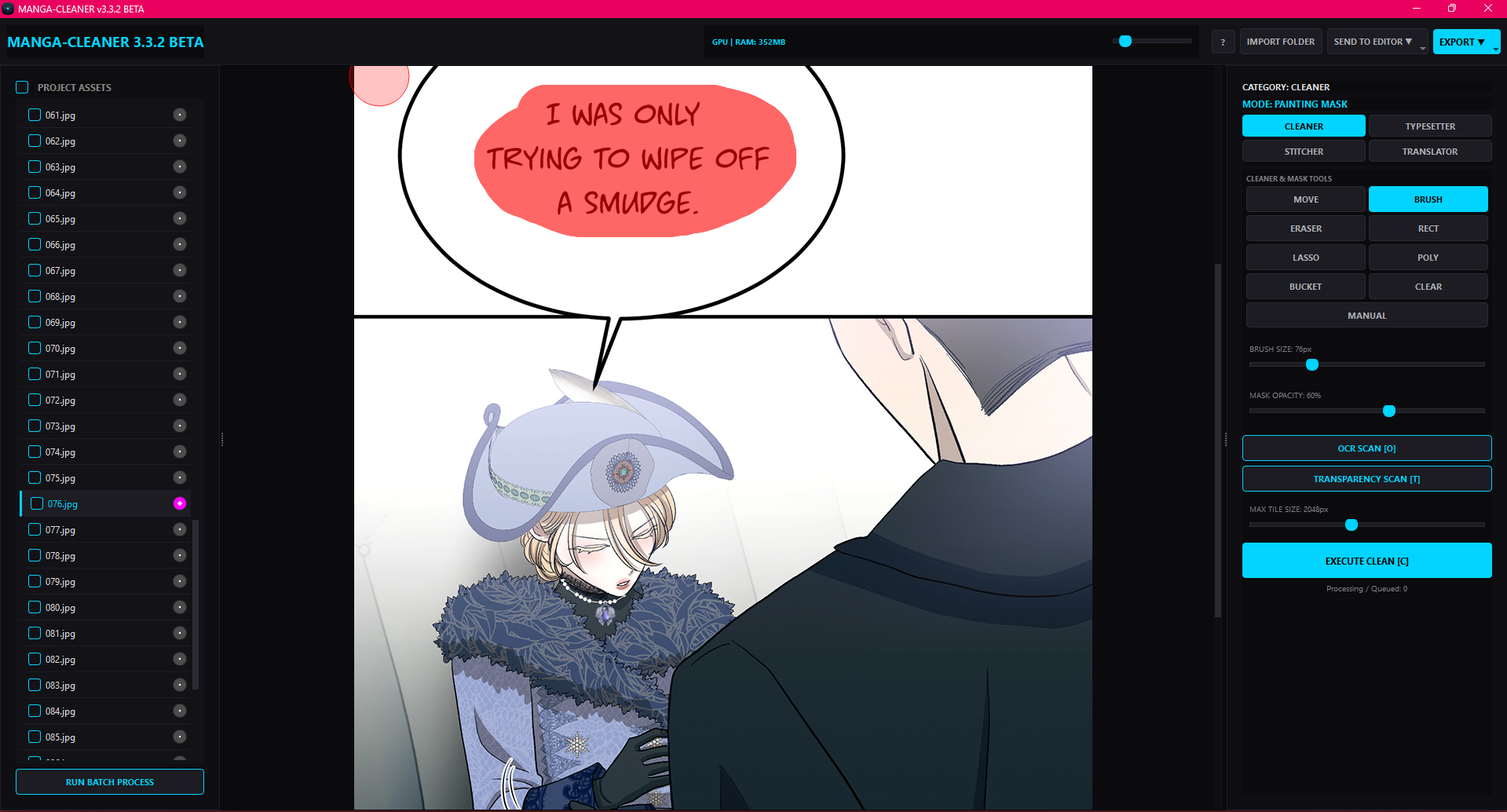
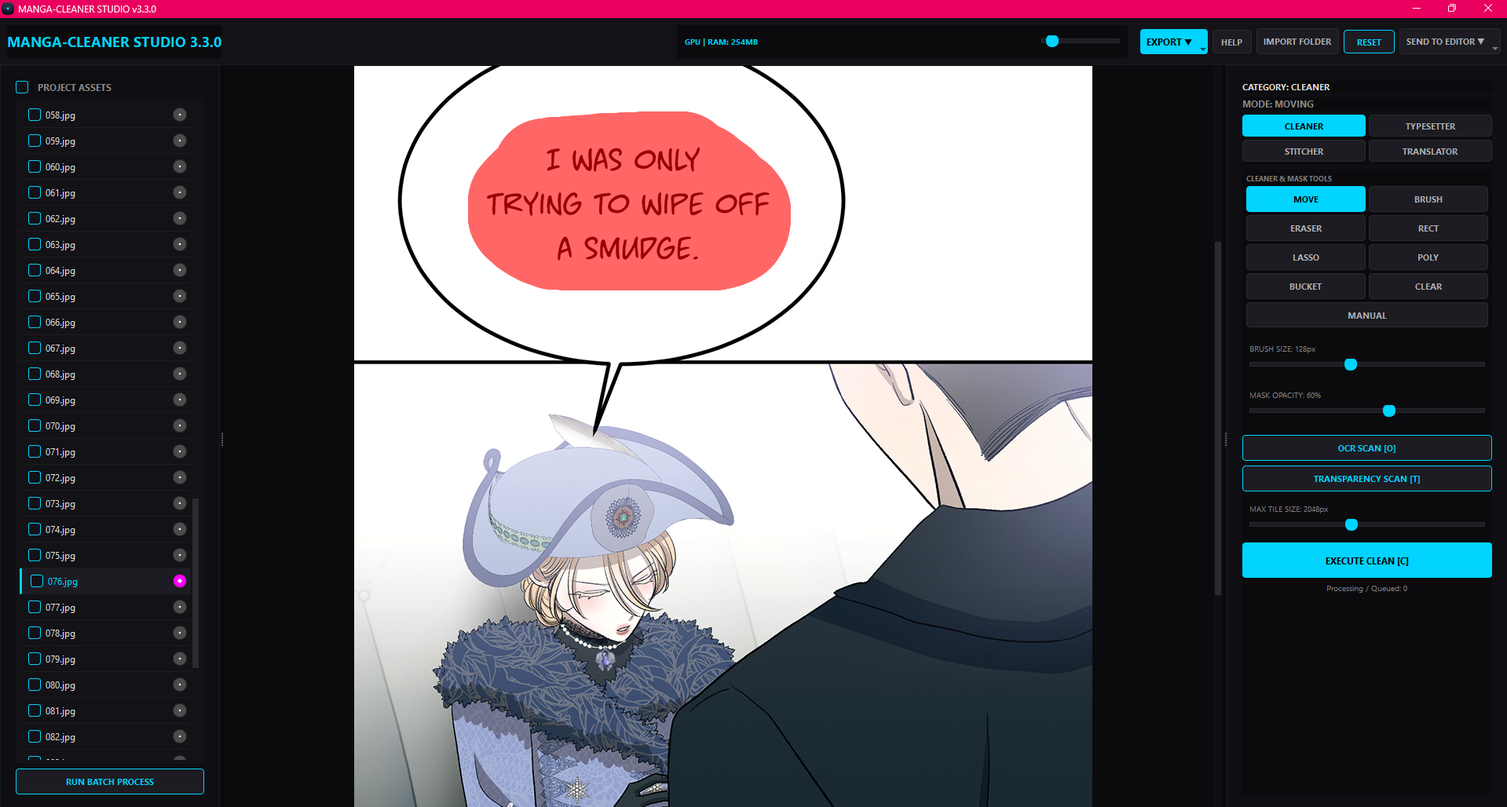
Version configuration: The BETA designation is removed, transitioning to the official version (3.3.2) The README file was updated..

diff --git a/src/utils/config.py b/src/utils/config.py
@@ -8,7 +8,7 @@ from src.utils.paths import Paths
 
 class Config:
     APP_NAME = "MANGA-CLEANER STUDIO"
-    VERSION = "3.3.0"
+    VERSION = "3.3.2"
 
     # Deep Obsidian Theme
     COLOR_BG = "#0b0b0e"

diff --git a/README.md b/README.md
@@ -1,73 +1,71 @@
-# 🌌 MANGA CLEANER STUDIO v3.3.0: The Workspaces & Typesetting Update
+# 🌌 MANGA CLEANER STUDIO v3.3.2: The Workspaces & Typesetting Update
+
 **High-Fidelity AI-Powered Scanlation Restoration Suite**
 
-[![Download v3.3.0](https://img.shields.io/badge/DOWNLOAD-v3.3.0-00d4ff?style=for-the-badge&logo=github)](https://github.com/NeTRuNNeRGLiTCH/manga-cleaner/releases)
+[![Download v3.3.2](https://img.shields.io/badge/DOWNLOAD-v3.3.2-00d4ff?style=for-the-badge&logo=github)](https://github.com/NeTRuNNeRGLiTCH/manga-cleaner/releases)
 [![Python Version](https://img.shields.io/badge/Python-3.10%20%7C%203.11%20%7C%203.12-blue)](https://www.python.org/)
 [![Downloads](https://img.shields.io/github/downloads/NeTRuNNeRGLiTCH/manga-cleaner/total?color=blue)](https://github.com/NeTRuNNeRGLiTCH/manga-cleaner/releases)
 
-Building upon the modular "Studio" engine introduced in v3.0.0 and the toolkit expansion of v3.2.0, **Manga Cleaner Studio v3.3.0** grows from a cleaning tool into a complete scanlation studio. The interface now has four dedicated workspaces — **Cleaner**, **Typesetter**, **Stitcher** and **Translator** — so you can go from raw scans to a finished chapter without leaving the app.
+Building on the modular Studio engine introduced in v3.0.0 and the toolkit expansion in v3.2.0, **Manga Cleaner Studio v3.3.2** expands Manga Cleaner into a multi-workspace scanlation tool. Four dedicated workspaces—**Cleaner**, **Typesetter**, **Stitcher**, and **Translator**—help users move from scan restoration to text placement and page assembly without leaving the application.
 
 ---
 
-## 🖥 Studio Preview (v3.3.0 UI)
-![Manga Cleaner v3.3 UI](.github/assets/ui.png)
-*Featuring the Obsidian Dark Theme, the two-column tool layout, live file-queue locking, and the new four-workspace switcher (Cleaner · Typesetter · Stitcher · Translator).*
+## 🖥 Studio Preview (v3.3.2 UI)
 
-Note: The screenshot was taken from a beta version, The UI doesn't change.
+![Manga Cleaner Studio v3.3.2 UI](.github/assets/ui.png)
+
+*Featuring the Obsidian Dark Theme, the two-column tool layout, live file-queue locking, and the four-workspace switcher (Cleaner · Typesetter · Stitcher · Translator). The screenshot shows the workspace layout used by v3.3.2.*
 
 ---
+
 ## 🎓 Installation & Setup Tutorial
 
-For the recommended installation and setup instructions, see the **[Running from Source](#-running-from-source)** section below.
+For recommended installation and setup instructions, see [Running from Source](#-running-from-source). This section covers:
 
-This includes instructions for:
-
-* Linux users with NVIDIA GPUs — **recommended**
-* CPU-only installations
-* Downloading and setting up the required AI models
-* Running Manga Cleaner directly from the repository
+- Linux users with NVIDIA GPUs (recommended)
+- CPU-only installations
+- Downloading and setting up the required AI models
+- Running Manga Cleaner directly from the repository
 
 ### 🎥 Video Tutorial
 
-Prefer a visual walkthrough? You can follow the video tutorial instead:
+Prefer a visual walkthrough? Follow the video tutorial:
 
-[![Watch the Video Tutorial](https://img.youtube.com/vi/9psnwpJG3aE/hqdefault.jpg)](https://www.youtube.com/embed/9psnwpJG3aE)  
+[![Watch the Video Tutorial](https://img.youtube.com/vi/9psnwpJG3aE/hqdefault.jpg)](https://www.youtube.com/watch?v=9psnwpJG3aE)
 
-The video provides a step-by-step walkthrough of setting up and using Manga Cleaner.
-
-Note: The video was recorded in version 3.2.0 (Manga Cleaner).
+The video provides a step-by-step walkthrough of setting up and using Manga Cleaner. **Note:** The video was recorded with version 3.2.0, so some newer Studio features are not shown.
 
 ---
 
-## ✨ What's New in v3.3.2 Beta
+## ✨ What's New in v3.3.2
 
-Everything that happens after the cleaning step — translating, typesetting and stitching — now lives in the same window:
+Everything after the cleaning step—including translating, typesetting, and stitching—can now be handled in the same window.
 
-*   **Four Workspaces:** Switch between **CLEANER**, **TYPESETTER**, **STITCHER** and **TRANSLATOR** from the 2×2 selector at the top of the right panel. Each workspace only shows the controls it needs.
-*   **Photoshop-Style Typesetter:** Add text directly on the page with a full transform gizmo — corner nodes scale the font, side nodes resize the text box with automatic word wrap, and the top node rotates freely (hold `Shift` to snap every 15°). Includes bold, italic, centering, an **Angle** field, a `0°` reset and **Fit Box** auto-width.
-*   **Vector Outside Stroke:** Text can use a true `Stroke (Outside)` mode with adjustable width and opacity. The clean fill is drawn on top of the stroke, so the outline never eats into the letters. Toggle it with the single **Mode: Normal / Stroke (Outside)** button. Pure color swatches and a one-click White/Black swap (`⇄`) keep styling fast.
-*   **Font Manager:** Live search by font name or alias, a **★ Only** favorites filter, one-click favorites, and custom aliases (`✎`) that keep the original system name visible (`Alias [Family]`). Everything is saved automatically to `font_presets.json`.
-*   **Page Text Layers:** A live list of every text box on the current page. Click an entry to select it and center the view on it. Queued script lines appear in the same list.
-*   **Manual Cleaner (`MANUAL` + `PICKER`):** Paint directly onto the page for the touch-ups the AI misses. Draw straight lines with `Shift + Click`, resize the brush with `Alt + Right-Click Drag`, and sample any pixel with `PICKER` (or `Alt + Left-Click` while painting). A color swatch and a quick `White` reset are included.
-*   **Smart Undo:** While `MANUAL` or `PICKER` is active, `Ctrl+Z` / `Ctrl+Shift+Z` undo and redo the painted image directly, so a stray shortcut can't wipe your page. With every other tool they keep undoing mask edits.
-*   **Translator Workspace:** Generate a `.txt` script template that matches the pages you loaded, hand it to your translator, then import the result. Dialogues are matched to pages by `[filename]` or by image order, and pages that couldn't be matched are reported. Lines are queued instead of rendered, so importing uses **no extra RAM**. Click a queued `[ + ]` line (or click directly on a speech bubble on the canvas) and the text is created on the spot with your currently selected font. See [Translator Script Format](#-translator-script-format).
-*   **Lossless Stitcher:** Join pages vertically with no seams, keeping your cleaning edits and text layers. Group pages manually (`From → To`), by pages per file, or by a maximum number of output files (for example, reduce 150 pages to 100 files). Optional **Max Height** protection (can be synced with Max Tile Size) and export to `PNG` or `JPG (100% quality, 4:4:4)`.
-*   **1:1 Export Compositing:** Text layers are flattened at native resolution for single exports, the Batch Engine and the Photoshop / Photopea bridges.
+- **Four Workspaces:** Switch between **CLEANER**, **TYPESETTER**, **STITCHER**, and **TRANSLATOR** using the 2×2 selector at the top of the right panel. Each workspace shows the controls relevant to that task.
+- **Photoshop-Style Typesetter:** Add text directly to the page with a transform gizmo. Corner handles scale the font, side handles resize the text box with automatic word wrapping, and the top handle rotates text. Hold `Shift` while rotating to snap to 15° increments. The panel also includes bold, italic, centering, an **Angle** field, a `0°` reset, and **Fit Box** auto-width.
+- **Vector Outside Stroke:** Apply an outer text stroke with adjustable width and opacity. The text fill is rendered over the stroke to keep the outline outside the letter fill. Switch modes with **Mode: Normal / Stroke (Outside)**. Color swatches and a one-click fill/stroke color swap (`⇄`) are included.
+- **Font Manager:** Search fonts by family name or alias, filter to favorites with **★ Only**, toggle favorites, and assign custom aliases while keeping the system font name visible (`Alias [Family]`). Preferences are saved to `font_presets.json`.
+- **Page Text Layers:** View placed text boxes and queued script lines for the active page. Select a placed entry to select and center the corresponding text item. Queued dialogue entries are displayed in the same list.
+- **Manual Cleaner (`MANUAL` + `PICKER`):** Paint directly onto the page for touch-ups that the AI misses. Draw straight lines with `Shift + Click`, resize the brush with `Alt + Right-Click Drag`, and sample a pixel with `PICKER` or `Alt + Left-Click` while Manual Cleaner is active. A color swatch and quick **White** reset are available.
+- **Smart Undo/Redo:** While `MANUAL` or `PICKER` is active, `Ctrl+Z` and `Ctrl+Shift+Z` undo and redo direct image painting. With mask tools active, those shortcuts continue to operate on mask edits.
+- **Translator Workspace:** Generate a `.txt` script template for the loaded pages and import a completed translation. Dialogues can be matched by `[filename]` or image order, and unmatched pages are reported. Imported dialogue is queued as text entries instead of being rasterized into the page at import time. Click a queued `[ + ]` entry to place it using the currently selected font and style. See [Translator Script Format](#-translator-script-format).
+- **Stitcher:** Join pages vertically while preserving the current cleaning edits and text layers. Group pages manually (`From → To`), by pages per output file, or by a maximum number of output files. Optional **Max Height** protection can be synchronized with **Max Tile Size**. PNG output is lossless; JPG output is compressed even when exported at high quality.
+- **Natural Filename Sorting:** Imported page filenames are sorted naturally, so numbered names such as `001`, `002`, `010`, and `100` appear in numerical order rather than lexicographic order.
+- **Project Reset:** Use **RESET** to clear the current in-memory project and return to an empty workspace without restarting the application. It clears loaded-page sessions, masks, text layers, pending dialogue entries, project histories, Stitcher blocks, and Translator script state. It does not delete source image files or persistent font preferences. Reset is blocked while an AI task or batch process is active. Actual memory usage after reset depends on the operating system and the memory retained by Python, Qt, OpenCV, and ONNX Runtime; the feature does not guarantee a fixed RAM baseline.
+- **Native-Resolution Export Compositing:** Text layers are composited at the image's native resolution for individual exports, batch processing, and the Photoshop / Photopea bridges.
 
 <details>
-<summary><b>Previously in v3.2.0</b></summary>
+<summary><b>Previously introduced in v3.2.0</b></summary>
 
-<br>
+The v3.0.0-to-v3.2.0 evolution expanded mask controls and workflow options:
 
-The evolution from v3.0.0 to v3.2.0 focused heavily on giving you granular control over your masks and workflow:
-
-*   **Expanded Toolkit:** We've added a **Polygonal Lasso** for precise geometric selections and a **Bucket Fill** tool that intelligently analyzes your mask layer. 
-*   **Pro Canvas Controls:** Navigate like a pro. Zoom in/out with `Alt + Scroll`, pan the image smoothly, draw perfectly straight lines using `Shift + Click`, and dynamically resize your brush on the fly with `Alt + Right-Click Drag`.
-*   **Transparency Scanning [T]:** Instantly detect and mask transparent/alpha areas with a single keystroke.
-*   **Photopea Integration:** Don't have Photoshop? v3.2.0 introduced a seamless bridge to **Photopea** (the free web editor). Cleaned pages and originals are injected directly into your browser as layered documents.
-*   **Linux Support:** The standard CPU edition now officially supports native execution on Linux environments!
-*   **Smart Queue UI:** The file list now displays real-time status icons and padlocks, so you always know exactly which pages the background AI is actively processing.
-*   **Mask Opacity Slider:** Dynamically adjust the visibility of your red mask overlay without altering the underlying data.
+- **Expanded Toolkit:** Polygonal Lasso for precise geometric selections and Bucket Fill for filling the mask.
+- **Canvas Controls:** Zoom with `Alt + Scroll`, pan the image, draw straight lines using `Shift + Click`, and dynamically resize the brush with `Alt + Right-Click Drag`.
+- **Transparency Scanning (`T`):** Detect and mask transparent/alpha areas with a single keystroke.
+- **Photopea Integration:** Send originals and cleaned pages to Photopea, the web-based editor, through the application bridge.
+- **Linux Support:** Native Linux execution for the standard CPU edition.
+- **Smart Queue UI:** Status indicators and padlocks show which pages are being processed in the background.
+- **Mask Opacity Slider:** Change the visibility of the mask overlay without changing the underlying mask data.
 
 </details>
 
@@ -75,9 +73,9 @@ The evolution from v3.0.0 to v3.2.0 focused heavily on giving you granular contr
 
 ## 💎 Core Engine Features
 
-*   **Resolution-Invariant Tiling:** Our Dynamic ROI Engine utilizes "Snap-to-8" reflection padding to process ultra-high 4K+ resolutions without downscaling. The output remains 1:1 perfectly sharp with no Gaussian blurring at the seams.
-*   **Advanced AI Core:** High-frequency heatmap OCR for pinpoint text detection in Japanese, Korean, English and Chinese, paired with an ONNX-quantized LaMa core for ultra-fast, seamless inpainting.
-*   **Hardware Optimized:** The GPU package provides real-time cleaning for NVIDIA devices (~900MB), while the Ultra-Lite CPU edition (~260MB) is perfectly pruned for laptops and integrated graphics.
+- **Resolution-Invariant Tiling:** The Dynamic ROI Engine uses Snap-to-8 reflection padding to process high-resolution images without downscaling the source image.
+- **AI Core:** OCR-based text detection and an ONNX-based LaMa inpainting pipeline for scan restoration.
+- **Hardware Options:** GPU and CPU packages are available. Package size and performance depend on the selected build, hardware, and installed runtime dependencies.
 
 ---
 
@@ -94,24 +92,26 @@ The evolution from v3.0.0 to v3.2.0 focused heavily on giving you granular contr
 
 | Feature | ⚡ CUDA GPU Edition | ☁ Standard CPU Edition |
 | :--- | :--- | :--- |
-| **Ideal For** | High-end NVIDIA Gaming PCs | Laptops & Integrated Graphics |
-| **Package Size** | ~900MB (Optimized) | ~260MB (Ultra-Lite) |
-| **Cleaning Speed** | Instant / Real-time | 3-8 seconds per page | (takes time to load model first)
-| **Hardware** | NVIDIA GPU (CUDA Required) | Any modern x64 Processor |
+| **Ideal For** | NVIDIA GPUs with a compatible CUDA runtime | Laptops and integrated graphics |
+| **Package Size** | Approximately 900 MB (build dependent) | Approximately 260 MB (build dependent) |
+| **Cleaning Speed** | Hardware and model dependent | Hardware and model dependent; the first run may take longer while the model loads |
+| **Hardware** | Compatible NVIDIA GPU and CUDA dependencies | Modern x64 CPU |
 
 ---
 
 ## 🎨 Professional Studio Features
-*   **Batch Engine:** Process entire chapters in one click. Load -> Auto-Scan -> AI Clean -> Export.
-*   **Selection Toolkit:** Added professional **Rectangular Selection** and **Lasso Tools** for manual mask refinement.
-*   **Photoshop® Bridge:** Direct COM Interop. Cleaned pages are injected directly into Adobe Photoshop as layered documents.
-*   **Integrated Help System:** A built-in manual and shortcut legend for a zero-friction learning curve.
+
+- **Batch Engine:** Process selected chapter pages in one workflow: load, scan, clean, and export.
+- **Selection Toolkit:** Rectangular Selection, Lasso, Polygon, Bucket Fill, Brush, and Eraser tools for mask refinement.
+- **Photoshop Bridge:** On supported Windows configurations, send cleaned pages to Adobe Photoshop.
+- **Photopea Bridge:** Send page content to Photopea through its web workflow.
+- **Integrated Help System:** Built-in usage instructions and shortcut reference.
 
 ---
 
 ## 📝 Translator Script Format
 
-The **TRANSLATOR** workspace reads a plain UTF-8 `.txt` file. Click **Generate .TXT Template** to create one with a block for every image loaded in Project Assets, fill in the dialogues, then use **Import .TXT & Queue in Layers**.
+The **TRANSLATOR** workspace uses a plain UTF-8 `.txt` file. Click **Generate .TXT Template** to create a block for each image in Project Assets, fill in the dialogue, then select **Import .TXT & Queue in Layers**.
 
 ```text
 ### SERIES TITLE: My Series
@@ -130,67 +130,70 @@ Image 2 [002.jpg]
 </translation>
 ```
 
-*   Only text between `<translation>` and `</translation>` is read. Do not modify or delete the tags.
-*   Each `-` line is one speech bubble or text box on that page. Empty `-` lines are ignored, so you can leave them on pages without text.
-*   Use `//` for a manual line break inside a bubble.
-*   Lines starting with `#` are comments and are ignored, as is anything outside the tags.
-*   **Match pages by [filename] brackets** (default): dialogues go to the file named in the brackets. The match ignores letter case and falls back to the name without its extension. Pages that can't be matched are listed after the import. Uncheck the option to match strictly by image order (`Image 1`, `Image 2`, …), ignoring the brackets.
-*   **Replace existing pending layers on import** replaces previously queued lines. Text you have already placed on the canvas is never touched.
+- Only text between `<translation>` and `</translation>` is read. Do not modify or delete these tags.
+- Each `-` line represents one speech bubble or text box. Empty `-` lines are ignored and can be left on pages without dialogue.
+- Use `//` for a manual line break inside a bubble.
+- Lines beginning with `#` are comments and are ignored, as is content outside the translation tags.
+- **Match pages by filename (default):** Put the exact filename in square brackets, such as `[001.jpg]`. Matching is case-insensitive and can fall back to the filename without its extension. Unmatched pages are reported after import. Disable filename matching to match strictly by image order (`Image 1`, `Image 2`, and so on).
+- **Replace pending layers on import:** Replaces previously queued dialogue lines. Text already placed on the canvas is not removed.
 
-Imported lines show up as `[ + ]` in **TYPESETTER → PAGE TEXT LAYERS**. Pick your font and style, then click a line to place it; placed text switches to `[ ✓ ]`.
+Imported lines appear as `[ + ]` entries in **TYPESETTER → PAGE TEXT LAYERS**. Choose a font and style, then click an entry to place it; placed text appears as `[ ✓ ]`.
 
 ---
 
 ## ⌨ Professional Shortcuts
 
-Master the studio workflow with these refined v3.3.2 keybinds:
-
 | Key | Action |
 | :--- | :--- |
-| `[O]` | Auto-Detect Text Bubbles (OCR Scan) |
-| `[T]` | Auto-Detect Transparent Areas |
-| `[C]` | Execute AI Clean (Inpainting) |
-| `[B] / [E] / [M]` | Equip Brush / Eraser / Move Tools |
-| `[R] / [L] / [P]` | Equip Rect / Lasso / Poly Tools |
-| `[G]` | Equip Bucket Fill Tool |
-| `[D] / [I]` | Equip Manual Cleaner / Color Picker |
-| `[Shift] + Click` | Draw a perfectly straight line between points |
-| `Double-Click` | Commit Polygonal Selection |
-| `Alt + Right-Click Drag` | Dynamically Resize Brush (Left: Smaller, Right: Bigger) |
-| `Alt + Left-Click` | Sample a color from the page (while Manual Cleaner is active) |
+| `O` | Run OCR text scan |
+| `T` | Scan transparent areas |
+| `C` | Execute AI cleaning / inpainting |
+| `B` / `E` / `M` | Select Brush / Eraser / Move tools |
+| `R` / `L` / `P` | Select Rectangle / Lasso / Polygon tools |
+| `G` | Select Bucket Fill |
+| `D` / `I` | Select Manual Cleaner / Color Picker |
+| `Shift + Click` | Draw a straight line between points |
+| `Double-Click` | Commit a polygon selection |
+| `Alt + Right-Click Drag` | Resize the brush dynamically |
+| `Alt + Left-Click` | Sample a page color while Manual Cleaner is active |
 | `Ctrl + Scroll` | Change text font size (Typesetter) |
 | `Ctrl + Shift + Scroll` | Rotate text (Typesetter) |
-| `Hold [Shift]` while rotating | Snap text rotation to 15° steps |
-| `Hold [Alt]` | Temporary Erase Mode (for Brush, Rect, Lasso, Poly, Bucket) |
-| `Hold [Space]` | Quick Toggle Pan/Move Image |
-| `[Ctrl+Z] / [Ctrl+Shift+Z]` | Undo / Redo Manual Mask Painting (or the painted image directly while Manual Cleaner / Picker is active) |
-| `[Alt+Z] / [Alt+Shift+Z]`| Undo / Redo AI Clean (Image State) |
+| Hold `Shift` while rotating | Snap rotation to 15° increments |
+| Hold `Alt` | Temporarily switch between Brush and Eraser where supported |
+| Hold `Space` | Temporarily pan / move the canvas |
+| `Ctrl+Z` / `Ctrl+Shift+Z` | Undo / redo; applies to direct image painting in Manual Cleaner and to mask edits in mask tools |
+| `Alt+Z` / `Alt+Shift+Z` | Undo / redo image-state actions, including AI cleaning |
 
 ---
 
 ## 🛠 Technical Stack (For Developers)
-*   **Language:** Python 3.12.7 (Strict OOP Architecture)
-*   **GUI:** PySide6 (Qt6) with Obsidian Dark styling.
-*   **Processing:** OpenCV 4.11 + NumPy 1.26.
-*   **Async Logic:** Multi-threaded QThread workers to maintain 60FPS UI responsiveness during AI tasks.
-*   **Telemetery:** Real-time RAM and VRAM monitoring via `psutil` and `onnxruntime` provider telemetry.
+
+- **Language:** Python 3.10, 3.11, and 3.12 (see the requirements files for the supported environment)
+- **GUI:** PySide6 (Qt 6), with the Obsidian Dark theme
+- **Image Processing:** OpenCV and NumPy
+- **AI Inference:** ONNX Runtime with LaMa-based inpainting
+- **Concurrency:** QThread-based workers and background processing to keep the interface responsive during AI tasks
+- **Telemetry:** RAM and GPU information displayed through the application's system-monitoring utilities
 
 ---
 
 ## 🗺 Roadmap: The Future of Manga Cleaner
 
-Python version
-*   **v3.4.0 (Planned):** **multi-language support** via translation files created by the community
-*   **v3.5.0 (Planned/under investigation):** **Marklees** Watermark removal by an AI model created by another developer (credit will be given if possible)
+### Python version
 
-Version 3.5.0 will likely be the final version for Python, in the event that the C++ version surpasses it.
+- **v3.4.0 (planned):** Community-contributed multi-language support through translation files.
+- **v3.5.0 (under investigation):** Potential watermark-removal support using an AI model, subject to implementation feasibility and attribution to the model developer.
 
-C++ version 
-*   **v4.0.0 (in development):** **AMD GPU Support** via DirectML Execution Providers and some of the community suggestions
+The Python roadmap may change if development of the C++ version progresses faster than expected.
+
+### C++ version
+
+- **v4.0.0 (in development):** Planned AMD GPU support through DirectML execution providers and other community-requested improvements.
 
 ---
 
 ## 📜 Community & Usage Policy
+
 **Copyright © 2024-2026 NeTRuNNeRGLiTCH. All Rights Reserved.**
 
 This project is built to empower the scanlation community. I want this tool to help you work faster and more professionally.
@@ -200,11 +203,11 @@ This project is built to empower the scanlation community. I want this tool to h
 - **Strict Commercial Restriction:** You are strictly prohibited from selling this software, its source code, or any modified versions of it. You cannot "re-skin" this app and put it behind a paywall.
 - **Attribution:** While not required, a shout-out to this repo helps the project grow!
 
-
 ---
+
 ## 🚀 Running from Source
 
-Running Manga Cleaner Studio directly from the repository is the **recommended method for Linux users with NVIDIA GPUs**. The source build allows ONNX Runtime to use the CUDA libraries provided through Python packages without requiring a system-wide CUDA toolkit configuration.
+Running Manga Cleaner directly from the repository is the recommended method for Linux users with NVIDIA GPUs. A source environment can use CUDA/cuDNN libraries provided through Python packages without requiring a system-wide CUDA toolkit configuration, provided the installed versions are compatible.
 
 ### 1. Clone the Repository
 
@@ -213,9 +216,11 @@ git clone https://github.com/NeTRuNNeRGLiTCH/manga-cleaner.git
 cd manga-cleaner
 ```
 
+For a fork, replace the URL with your fork's URL and select the relevant branch.
+
 ### 2. Download the AI Models
 
-Download `models.zip` from the latest release and extract it into the repository root:
+Download `models.zip` from the latest project release and extract it into the repository root:
 
 ```text
 manga-cleaner/
@@ -225,7 +230,7 @@ manga-cleaner/
 └── main.py
 ```
 
-The `models.zip` file is available in the project's [Releases](https://github.com/NeTRuNNeRGLiTCH/manga-cleaner/releases).
+The archive is available on the project's [Releases page](https://github.com/NeTRuNNeRGLiTCH/manga-cleaner/releases).
 
 ### 3. Linux — NVIDIA GPU
 
@@ -234,7 +239,6 @@ Create a virtual environment and install the Linux GPU dependencies:
 ```bash
 python3 -m venv venv
 source venv/bin/activate
-
 pip install -r requirements_linux_gpu.txt
 ```
 
@@ -244,25 +248,25 @@ Then launch the application:
 python main.py
 ```
 
-Manga Cleaner will automatically use the NVIDIA GPU through ONNX Runtime's `CUDAExecutionProvider` when available.
+Manga Cleaner uses ONNX Runtime's `CUDAExecutionProvider` when it is available and compatible with the installed environment.
 
-> **Recommended for Linux NVIDIA users:** Running directly from source is currently preferred over the packaged Linux GPU build. It provides a simpler dependency environment and allows the CUDA/cuDNN libraries installed through pip to be loaded directly by ONNX Runtime.
+> **Recommended for Linux NVIDIA users:** Running from source may provide a simpler dependency environment than the packaged Linux GPU build and can allow ONNX Runtime to load compatible CUDA/cuDNN libraries installed through Python packages.
 
 ### 4. CPU / Other Platforms
 
-For CPU-only usage, use the appropriate platform requirements and launch the application normally:
+For CPU-only usage, install the appropriate requirements file for your platform and launch the application:
 
 ```bash
 python main.py
 ```
 
-The application will fall back to the CPU execution provider when CUDA is unavailable.
+When CUDA is unavailable, the application can use the CPU execution provider.
 
 ---
 
 ## ⚙ Development & Compilation (Source Only)
 
-The following instructions are intended for developers who want to create distributable builds from the source.
+These instructions are intended for developers building distributable packages from source. Verify the spec file and requirements for the target platform before building.
 
 ### 1. Clone the Repository
 
@@ -275,36 +279,26 @@ cd manga-cleaner
 
 ```cmd
 python -m venv venv
-
 .\venv\Scripts\activate
-
 pip install -r requirements.txt pyinstaller
-
 pyinstaller MangaCleaner_CPU_clean.spec --noconfirm --clean
-
-cp -R .\models\ .\dist\MangaCleaner_CPU\models
 ```
+
+Copy the `models` directory into the generated application's expected location as required by the selected spec file.
 
 ### 3. Linux Compilation
 
-The Linux GPU build uses `MangaCleaner_GPU_linux.spec` instead and currently supports NVIDIA GPUs with CUDA.
+The Linux build uses the relevant Linux spec file and requirements file. The following example shows a Docker-based environment; ensure that the spec filename and output directory match the build you intend to produce.
 
 ```bash
-docker run --rm -v $(pwd):/workspace -w /workspace python:3.12-bookworm bash -c "
-
+docker run --rm -v "$(pwd):/workspace" -w /workspace python:3.12-bookworm bash -c "
   apt-get update && apt-get install -y libgl1 libglib2.0-0 zip
-
   python -m venv venv
-
   source venv/bin/activate
-
   pip install -r requirements_linux_gpu.txt pyinstaller
-
-  pyinstaller --clean --noconfirm MangaCleaner_CPU_linux.spec
-
+  pyinstaller --clean --noconfirm MangaCleaner_GPU_linux.spec
   chown -R $(id -u):$(id -g) dist/ build/
-
 "
-
-cp -r ./models/ ./dist/MangaCleaner_GPU/models/
 ```
+
+Copy the `models` directory into the generated application's expected location as required by the selected spec file.
